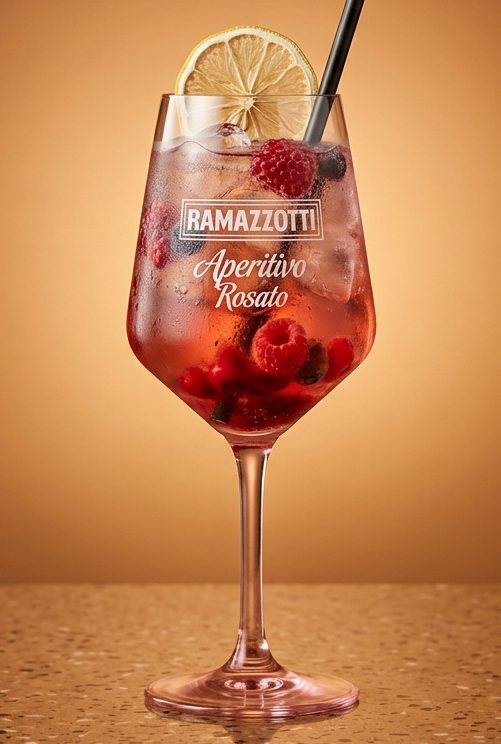
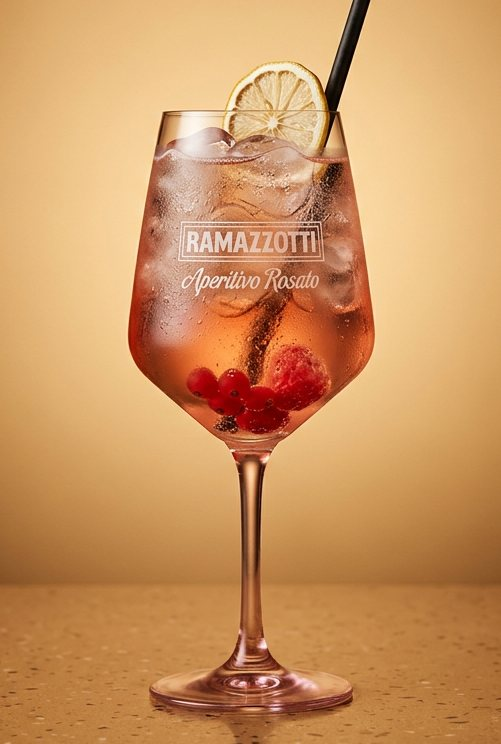
Ramazzotti: foto con fondo más parecido al de la carta
Claude-Session: https://claude.ai/code/session_019MoS2hn62rMDpRnL1fqsn9

diff --git a/carta/index.html b/carta/index.html
@@ -430,7 +430,7 @@ const RECETAS={
    {n:'Amargo de angostura',q:2,u:'gotas',fixed:1,sub:m=>'por vaso, ya servido'}],
   steps:['En la licuadora: 3 hielos, preparado de pisco sour y ½ cuchara de albúmina.','Licuar 1 minuto.','Servir en el vaso.','Agregar 2 gotas de amargo de angostura.']},
  'Ramazzotti Tradicional':{id:'ramazzotti',sec:'aperitivi',cat:0,name:'Ramazzotti',
-  hero:'../assets/tragos/ramazzotti/hero.jpg?v=3',
+  hero:'../assets/tragos/ramazzotti/hero.jpg?v=4',
   facts:[['Sabor','Frutal, burbujeante'],['Familia','Spritz'],['Estilo','Largo, en copa']],
   serv:[['vino','Copa Ramazzotti',null,'copa'],['hielo','Hielo hasta arriba'],['revolver','Revolver al final']],
   ing:[
@@ -493,7 +493,7 @@ const RECETAS={
 };
 const REC_ID=Object.fromEntries(Object.values(RECETAS).map(r=>[r.id,r]));
 /* fotos por trago (nombre exacto → archivo en assets/tragos). Las que faltan muestran la copa dibujada */
-const FOTOS={'Pisco Sour en botella':'../preparados/pisco-sour.jpg','Limonada en botella':'../preparados/limonada.jpg','Ramazzotti Tradicional':'ramazzotti/card.jpg?v=3','Tequila Margarita':'margarita.jpg?v=3','Fresco Pasión':'fresco-pasion.jpg?v=2','Aperol Spritz':'aperol-spritz.jpg','Orange Spritz':'orange-spritz.jpg','Pisco Sour':'pisco-sour.jpg?v=3','Limonada':'limonada.jpg'};
+const FOTOS={'Pisco Sour en botella':'../preparados/pisco-sour.jpg','Limonada en botella':'../preparados/limonada.jpg','Ramazzotti Tradicional':'ramazzotti/card.jpg?v=4','Tequila Margarita':'margarita.jpg?v=3','Fresco Pasión':'fresco-pasion.jpg?v=2','Aperol Spritz':'aperol-spritz.jpg','Orange Spritz':'orange-spritz.jpg','Pisco Sour':'pisco-sour.jpg?v=3','Limonada':'limonada.jpg'};
 const IMG_LISTA=['aperitivi','mocktails','birre','jugos','digestivi','vinos','caffe','bases'];
 const IMG_POS={mocktails:'100%',jugos:'100%',digestivi:'100%',caffe:'35%',bases:'80%'};
 
